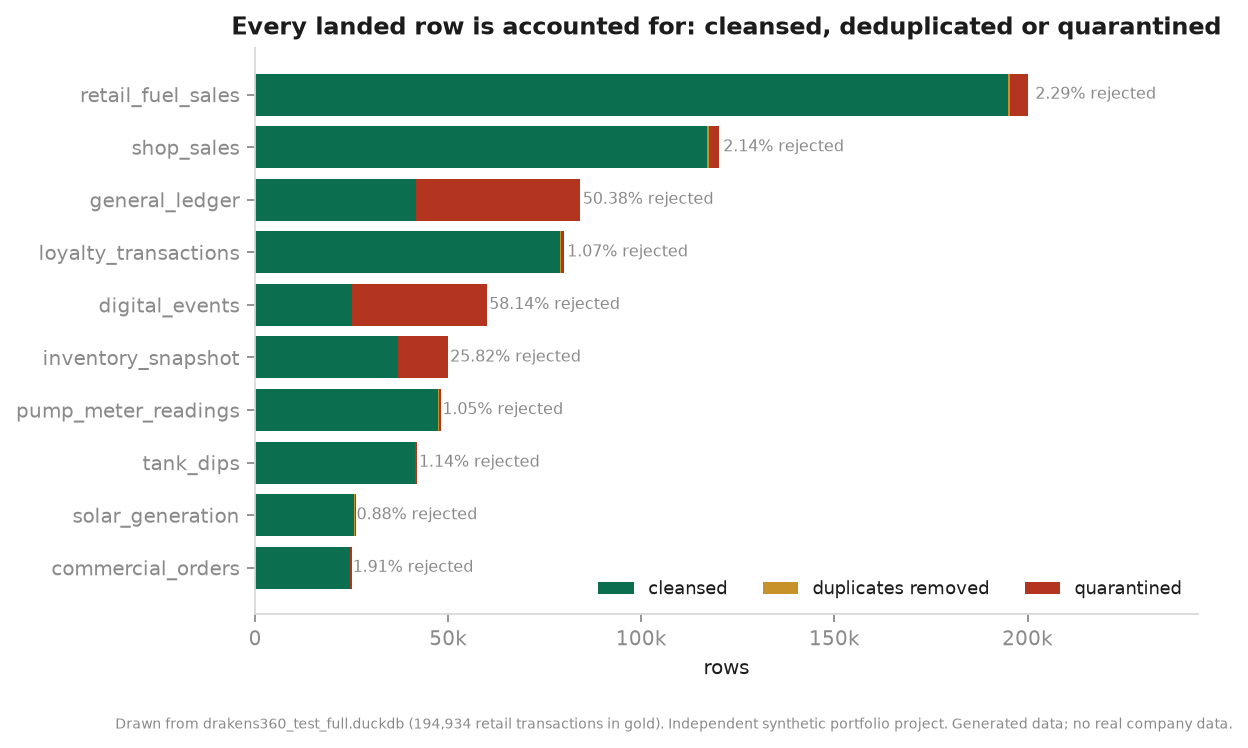
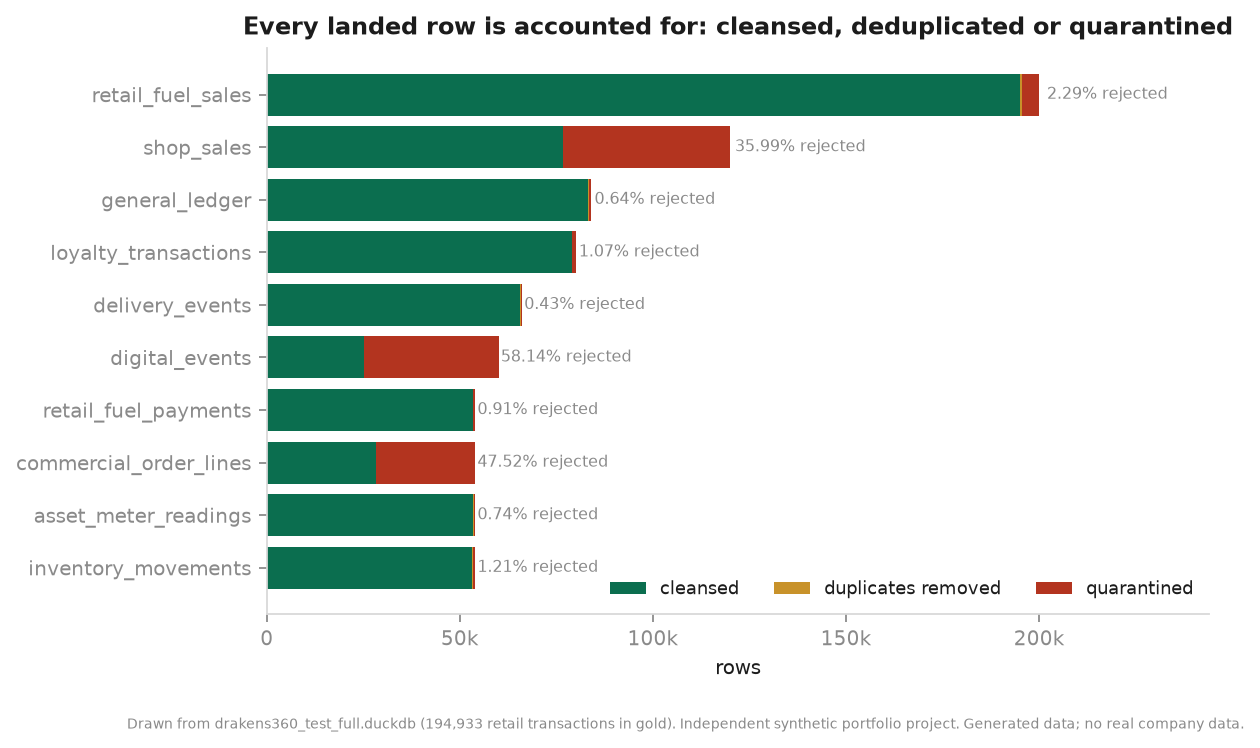
Measure the whole landing zone, and stop three rules rejecting good rows
obs_cleansing_summary named fourteen tables. The landing zone has 167, so the
observability that exists to prove the cleansing is measurable was measuring
8% of it -- and the eight percent was whichever tables someone had thought to
add, which is the least useful sample available. A hand-kept list also goes
stale in silence: a new fact lands, nobody adds it, its rejection rate stays
invisible until someone asks a question it would have answered.

The list is now generated by the same pass that generates the cleansing
models, and returned from a macro. Deriving it from  inside the model
is the obvious approach and does not compile:  is only populated at
execute time, so the ref() calls built from it sit inside a conditional and
dbt cannot infer dependencies while parsing -- it fails naming one arbitrary
missing dependency, which is a confusing way to learn the approach is
unavailable. Coverage went from 14 tables to 128: 2,049,277 raw rows
reconciling exactly to 1,864,298 cleansed, 161,783 quarantined and 23,196
deduplicated, with zero tables failing reconciliation.

Widening the coverage immediately showed three rules rejecting good data,
which is the point of measuring all of it.

The fuel price band was keyed on the column name, and unit_price_zar is not a
fuel price everywhere it appears -- on the shop feed it is the price of a pie.
The 8-45 rand band rejected 41,645 shop lines, 36% of the table, every one of
them fine. Bands are now keyed by table and column.
[…]

diff --git a/scripts/generate_dbt_staging.py b/scripts/generate_dbt_staging.py
@@ -180,14 +180,49 @@ NON_NEGATIVE_MEASURES = {
     "stock_on_hand_litres", "solar_kwh", "generation_kwh",
 }
 
-# Plausible bands for unit prices. A regulated South African fuel price has
-# never been R1.51 or R0.00 a litre; a row claiming one has lost a decimal
-# separator or picked up a sentinel, and it must not reach a margin
-# calculation. The band is deliberately wide -- it is a sanity check, not a
-# forecast of the pump price.
+# Plausible bands for unit prices, keyed by table *and* column.
+#
+# A regulated South African fuel price has never been R1.51 or R0.00 a litre,
+# so a row claiming one has lost a decimal separator or picked up a sentinel
+# and must not reach a margin calculation. But the first version of this rule
+# was keyed on the column name alone, and `unit_price_zar` is not a fuel price
+# everywhere it appears: on the shop feed it is the price of a pie or a
+# newspaper. The fuel band rejected 41,645 shop lines -- 36% of the table --
+# every one of them a perfectly good row.
+#
+# That is the third time in this project a rule inferred from a column's name
+# has destroyed real data, after the signed ledger amounts and the site
+# opening dates. The pattern is consistent enough to be worth stating: a
+# column name tells you what a value is called, not what it means, and the
+# meaning is what a validity rule has to be written against.
 PRICE_BANDS = {
-    "unit_price_zar": (8.0, 45.0),
-    "price_per_litre_zar": (8.0, 45.0),
+    ("fact_retail_fuel_sales", "unit_price_zar"): (8.0, 45.0),
+    ("fact_retail_fuel_sales", "price_per_litre_zar"): (8.0, 45.0),
+    ("fact_wholesale_fuel_sales", "unit_price_zar"): (8.0, 45.0),
+    # Shop, LPG and lubricant lines span a genuinely wide range and get only
+    # a sanity ceiling, not a fuel band.
+    ("fact_shop_sales", "unit_price_zar"): (0.0, 5_000.0),
+    ("fact_lpg_sales", "unit_price_zar"): (0.0, 10_000.0),
+    ("fact_lubricant_sales", "unit_price_zar"): (0.0, 20_000.0),
+}
+
+# Foreign keys that are optional by design, measured rather than assumed:
+# these columns are null far more often than the injector's null rate, which
+# is the generator saying the column does not apply to this table.
+#
+#   fact_digital_events.site_id       57.8% -- an app session is not at a site
+#   fact_inventory_snapshot.site_id   25.2% -- terminal stock is not site stock
+#   fact_lpg_sales.customer_id        65.3% -- walk-in cash sales have no account
+#   fact_lubricant_sales.customer_id  53.7% -- the same
+#
+# Requiring them quarantined 34,808 digital events, 58% of the feed, for
+# lacking a station they were never at.
+OPTIONAL_FOREIGN_KEYS = {
+    ("fact_digital_events", "site_id"),
+    ("fact_digital_sessions", "site_id"),
+    ("fact_inventory_snapshot", "site_id"),
+    ("fact_lpg_sales", "customer_id"),
+    ("fact_lubricant_sales", "customer_id"),
 }
 
 # Columns that must be present for the row to mean anything.
@@ -269,8 +304,8 @@ def quality_rules(table: str, columns: list[str], types: dict,
         if col in UNIT_CORRECTIONS:
             rules[f"{col}_within_range"] = (
                 f"{col} <= {UNIT_CORRECTIONS[col]}")
-        if col in PRICE_BANDS:
-            lo, hi = PRICE_BANDS[col]
+        if (table, col) in PRICE_BANDS:
+            lo, hi = PRICE_BANDS[(table, col)]
             rules[f"{col}_plausible"] = f"{col} between {lo} and {hi}"
         if col in NON_NEGATIVE_MEASURES:
             rules[f"{col}_non_negative"] = f"{col} >= 0"
@@ -482,6 +517,50 @@ def render_schema_yml(tables: dict[str, dict], layer: str) -> str:
     return "\n".join(lines) + "\n"
 
 
+
+def render_monitored_tables(monitored: list[tuple[str, str]]) -> str:
+    """A macro returning the tables `obs_cleansing_summary` counts.
+
+    Generated rather than hand-kept, and returned from a macro rather than
+    derived from `graph` inside the model.
+
+    Deriving it from the graph is the obvious approach and it does not work:
+    `graph` is only populated at execute time, so every `ref()` built from it
+    sits inside a conditional and dbt cannot infer the model's dependencies at
+    parse time. It fails with a compilation error naming one arbitrary missing
+    dependency, which is a confusing way to learn the approach is unavailable.
+    A macro is evaluated during parsing, so the refs built from its result are
+    static and dbt resolves them normally.
+
+    Generating it keeps the list honest: it is produced by the same pass that
+    produced the models it names, so a new fact table enters the observability
+    the moment its cleansing models exist. The fourteen-table list this
+    replaced covered 8% of the landing zone, and the eight percent was
+    whichever tables someone had thought to add.
+    """
+    lines = [
+        "{#-",
+        "    GENERATED by scripts/generate_dbt_staging.py -- do not edit by hand.",
+        "-#}",
+        "{% macro monitored_tables() %}",
+        "    {#-",
+        f"        The {len(monitored)} tables with both a staging and a quarantine",
+        "        model, which are therefore reconcilable: raw = cleansed +",
+        "        quarantined + duplicates. Tables with no quarantine model are",
+        "        absent rather than counted as zero -- reporting an unmonitored",
+        "        feed as a clean one is worse than not reporting it.",
+        "    -#}",
+        "    {% set tables = [",
+    ]
+    for source_name, table in monitored:
+        lines.append(f"        ('{source_name}', '{table}'),")
+    lines += [
+        "    ] %}",
+        "    {{ return(tables) }}",
+        "{% endmacro %}",
+    ]
+    return "\n".join(lines) + "\n"
+
 def main(argv=None):
     ap = argparse.ArgumentParser()
     ap.add_argument("--manifest", type=Path, default=Path("data/lake/_manifest.json"))
@@ -501,6 +580,7 @@ def main(argv=None):
     args.quarantine_out.mkdir(parents=True, exist_ok=True)
 
     n_cln = n_stg = n_qtn = 0
+    monitored: list[tuple[str, str]] = []
     for table, info in sorted(tables.items()):
         layer = "facts" if table.startswith("fact_") else "dimensions"
         cols = info["columns"]
@@ -518,6 +598,9 @@ def main(argv=None):
             (args.quarantine_out / f"qtn_{table}.sql").write_text(
                 render_quarantine(table, cols), encoding="utf-8")
             n_qtn += 1
+            monitored.append(
+                ("lake_facts" if layer == "facts" else "lake_dimensions",
+                 table))
 
     (args.cleansed_out / "_sources.yml").write_text(
         render_sources(tables), encoding="utf-8")
@@ -526,7 +609,13 @@ def main(argv=None):
     (args.out / "facts" / "_schema.yml").write_text(
         render_schema_yml(tables, "facts"), encoding="utf-8")
 
+    macro_path = Path("dbt/macros/monitored_tables.sql")
+    macro_path.parent.mkdir(parents=True, exist_ok=True)
+    macro_path.write_text(
+        render_monitored_tables(sorted(monitored)), encoding="utf-8")
+
     print(f"wrote {n_cln} repair/assess models to {args.cleansed_out}")
+    print(f"wrote the {len(monitored)}-table monitored list to {macro_path}")
     print(f"wrote {n_stg} staging models to {args.out}")
     print(f"wrote {n_qtn} quarantine models to {args.quarantine_out}")
 
